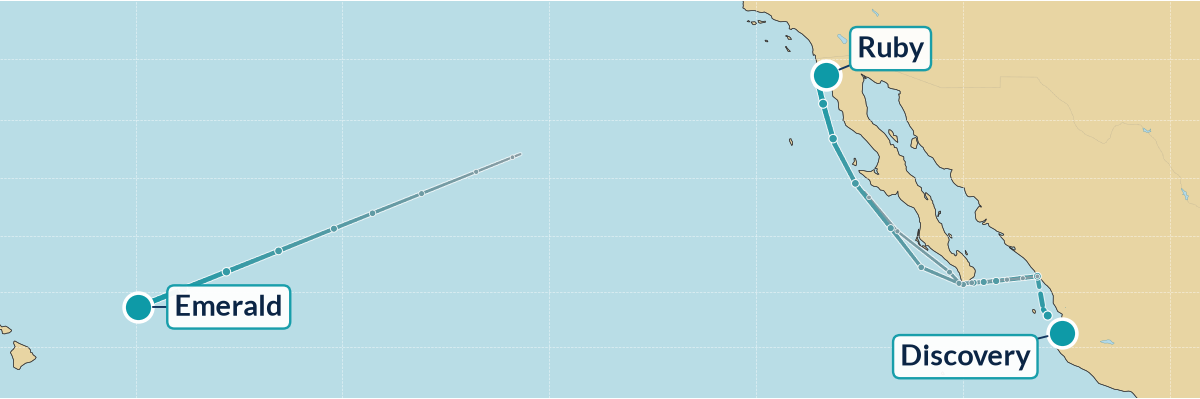
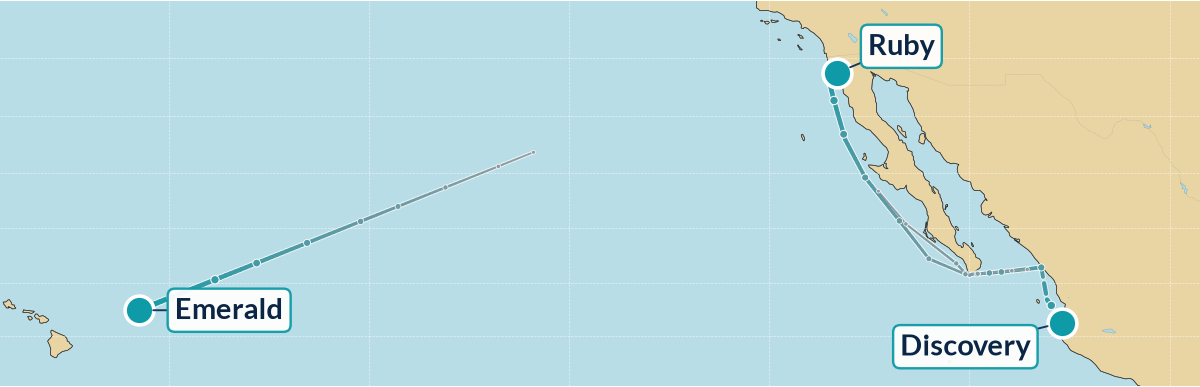
Update 10/21 17:01 PT

diff --git a/index.html b/index.html
@@ -1,47 +1,47 @@
 <!DOCTYPE html><html lang="en"><head><meta charset="utf-8"><meta name="viewport" content="width=device-width, initial-scale=1"><meta http-equiv="refresh" content="1800"><meta name="description" content="Live Princess Cruises fleet tracker"><title>Princess Patter — Wednesday, October 21, 2026</title></head>
 <body style="margin:0;padding:0;background-color:#dee2e8;">
-<div style="display:none;max-height:0;overflow:hidden;opacity:0;color:#dee2e8;font-size:1px;line-height:1px;">Wednesday, October 21, 2026 — 8:00am PT | 17 ships | 7 at sea, 10 in port</div>
+<div style="display:none;max-height:0;overflow:hidden;opacity:0;color:#dee2e8;font-size:1px;line-height:1px;">Wednesday, October 21, 2026 — 4:00pm PT | 17 ships | 13 at sea, 4 in port</div>
 <table role="presentation" width="100%" cellpadding="0" cellspacing="0" border="0" bgcolor="#dee2e8" style="background-color:#dee2e8;border-collapse:collapse;"><tr><td align="center" style="padding:16px 8px;">
 <table role="presentation" width="100%" cellpadding="0" cellspacing="0" border="0" bgcolor="#fdfdfb" style="width:100%;max-width:900px;background-color:#fdfdfb;border-collapse:collapse;border:1px solid #d6dae0;">
 <tr><td bgcolor="#1d3a6b" align="left" style="background-color:#1d3a6b;padding:24px 28px 24px 28px;"><div style="font-family:Georgia, 'Times New Roman', Times, serif;font-size:40px;line-height:46px;color:#ffffff;letter-spacing:0.5px;"><span style="color:#a8b6e2;">≋</span>&nbsp;Princess Patter</div></td></tr>
-<tr><td style="padding:0;"><table role="presentation" width="100%" cellpadding="0" cellspacing="0" border="0" style="border-collapse:collapse;"><tr><td height="5" bgcolor="#6a5aa8" style="background-color:#6a5aa8;height:5px;font-size:0;line-height:0;width:60%;">&nbsp;</td><td height="5" bgcolor="#2f6db5" style="background-color:#2f6db5;height:5px;font-size:0;line-height:0;width:40%;">&nbsp;</td></tr></table></td></tr><tr><td bgcolor="#1d3a6b" style="background:linear-gradient(#1d3a6b,#2f6db5);padding:10px 16px 14px;text-align:center;"><img src="regal.png?v=202610211601" alt="Regal Princess" style="width:100%;max-width:640px;height:auto;display:block;margin:0 auto;"></td></tr>
+<tr><td style="padding:0;"><table role="presentation" width="100%" cellpadding="0" cellspacing="0" border="0" style="border-collapse:collapse;"><tr><td height="5" bgcolor="#6a5aa8" style="background-color:#6a5aa8;height:5px;font-size:0;line-height:0;width:60%;">&nbsp;</td><td height="5" bgcolor="#2f6db5" style="background-color:#2f6db5;height:5px;font-size:0;line-height:0;width:40%;">&nbsp;</td></tr></table></td></tr><tr><td bgcolor="#1d3a6b" style="background:linear-gradient(#1d3a6b,#2f6db5);padding:10px 16px 14px;text-align:center;"><img src="regal.png?v=202610211701" alt="Regal Princess" style="width:100%;max-width:640px;height:auto;display:block;margin:0 auto;"></td></tr>
 <tr><td style="padding:22px 20px 6px 20px;">
-<div style="font-family:Georgia, 'Times New Roman', Times, serif;font-style:italic;font-size:20px;line-height:26px;color:#2f6db5;">Good morning!</div>
+<div style="font-family:Georgia, 'Times New Roman', Times, serif;font-style:italic;font-size:20px;line-height:26px;color:#2f6db5;">Good afternoon!</div>
 <div style="font-family:Georgia, 'Times New Roman', Times, serif;font-weight:bold;font-size:26px;line-height:32px;color:#1d3a6b;padding-top:6px;">Wednesday, October 21, 2026</div>
-<div style="font-family:Helvetica, Arial, sans-serif;font-size:16px;line-height:22px;color:#2f6db5;padding-top:4px;">8:00am PT | 17 ships | 7 at sea, 10 in port</div>
-</td></tr><tr><td style="padding:14px 20px 0 20px;"><div style="font-family:Georgia, 'Times New Roman', Times, serif;font-style:italic;font-weight:bold;font-size:18px;color:#295aa0;padding:0 4px 4px;border-bottom:1px solid #295aa0;">pacific map</div><a href="map.png?v=202610211601"><img src="map.png?v=202610211601" alt="Pacific fleet map" style="width:100%;height:auto;display:block;margin-top:8px;border-radius:12px;border:2px solid #c8dee2;"></a></td></tr>
+<div style="font-family:Helvetica, Arial, sans-serif;font-size:16px;line-height:22px;color:#2f6db5;padding-top:4px;">4:00pm PT | 17 ships | 13 at sea, 4 in port</div>
+</td></tr><tr><td style="padding:14px 20px 0 20px;"><div style="font-family:Georgia, 'Times New Roman', Times, serif;font-style:italic;font-weight:bold;font-size:18px;color:#295aa0;padding:0 4px 4px;border-bottom:1px solid #295aa0;">pacific map</div><a href="map.png?v=202610211701"><img src="map.png?v=202610211701" alt="Pacific fleet map" style="width:100%;height:auto;display:block;margin-top:8px;border-radius:12px;border:2px solid #c8dee2;"></a></td></tr>
 <tr><td style="padding:14px 20px 4px 20px;">
 <table role="presentation" width="100%" cellpadding="0" cellspacing="0" border="0" style="border-collapse:collapse;width:100%;font-family:Helvetica, Arial, sans-serif;font-size:15px;line-height:20px;color:#262c38;">
 <tr bgcolor="#2f6db5" style="background-color:#2f6db5;"><td style="font-size:14px;line-height:18px;font-weight:bold;color:#ffffff;text-align:left;padding:9px 8px;padding-left:10px;" colspan="2">Ship</td><td style="font-size:14px;line-height:18px;font-weight:bold;color:#ffffff;text-align:left;padding:9px 8px;">Where</td><td style="font-size:14px;line-height:18px;font-weight:bold;color:#ffffff;text-align:left;padding:9px 8px;">Next Port</td></tr>
 <tr><td colspan="4" style="padding:14px 4px 4px 4px;border-bottom:1px solid #295aa0;font-family:Georgia, 'Times New Roman', Times, serif;font-style:italic;font-weight:bold;font-size:18px;line-height:22px;color:#295aa0;">canada &amp; new england</td></tr>
-<tr bgcolor="#eef0f3" style="background-color:#eef0f3;"><td width="18" style="padding:7px 0 7px 8px;vertical-align:top;width:18px;color:#1a9a9a;font-size:18px;">&nbsp;</td><td style="padding:7px 8px;vertical-align:top;"><b style="color:#1d3a6b;">Majestic</b></td><td style="padding:7px 8px;vertical-align:top;">Saint John <span style="white-space:nowrap;font-size:12px;color:#707884;" title="Forecast high/low">🌙&thinsp;46°</span> <span style="font-size:13px;color:#707884;">(2:45pm)</span></td><td style="padding:7px 8px;vertical-align:top;">Halifax <span style="white-space:nowrap;font-size:12px;color:#707884;" title="Forecast high/low">🌧&thinsp;52°/45°</span> <span style="font-size:13px;color:#707884;">(10/22 9am)</span></td></tr>
-<tr bgcolor="#ffffff" style="background-color:#ffffff;"><td width="18" style="padding:7px 0 7px 8px;vertical-align:top;width:18px;color:#1a9a9a;font-size:18px;">&nbsp;</td><td style="padding:7px 8px;vertical-align:top;"><b style="color:#1d3a6b;">Sapphire</b></td><td style="padding:7px 8px;vertical-align:top;">Saguenay <span style="white-space:nowrap;font-size:12px;color:#707884;" title="Forecast high/low">🌙&thinsp;42°</span> <span style="font-size:13px;color:#707884;">(3pm)</span></td><td style="padding:7px 8px;vertical-align:top;">Quebec City <span style="font-size:13px;color:#707884;">(10/22 6am)</span></td></tr>
+<tr bgcolor="#eef0f3" style="background-color:#eef0f3;"><td width="18" style="padding:7px 0 7px 8px;vertical-align:top;width:18px;color:#1a9a9a;font-size:18px;">&nbsp;</td><td style="padding:7px 8px;vertical-align:top;"><b style="color:#1d3a6b;">Majestic</b></td><td style="padding:7px 8px;vertical-align:top;">At Sea <span style="white-space:nowrap;font-size:12px;color:#707884;" title="Forecast high/low">☁&thinsp;53°</span> <span style="font-size:12px;color:#707884;"><span style="white-space:nowrap;">🌊 2 ft</span> &middot; <span style="white-space:nowrap;">🚢 15.7 kn</span></span></td><td style="padding:7px 8px;vertical-align:top;">Halifax <span style="white-space:nowrap;font-size:12px;color:#707884;" title="Forecast high/low">🌧&thinsp;52°/45°</span> <span style="font-size:13px;color:#707884;">(10/22 9am)</span></td></tr>
+<tr bgcolor="#ffffff" style="background-color:#ffffff;"><td width="18" style="padding:7px 0 7px 8px;vertical-align:top;width:18px;color:#1a9a9a;font-size:18px;">&nbsp;</td><td style="padding:7px 8px;vertical-align:top;"><b style="color:#1d3a6b;">Sapphire</b></td><td style="padding:7px 8px;vertical-align:top;">At Sea <span style="white-space:nowrap;font-size:12px;color:#707884;" title="Forecast high/low">🌙&thinsp;40°</span> <span style="font-size:12px;color:#707884;"><span style="white-space:nowrap;">💨 WSW 3 kt</span> &middot; <span style="white-space:nowrap;">🚢 13.0 kn</span></span></td><td style="padding:7px 8px;vertical-align:top;">Quebec City <span style="font-size:13px;color:#707884;">(10/22 6am)</span></td></tr>
 <tr><td colspan="4" style="padding:14px 4px 4px 4px;border-bottom:1px solid #295aa0;font-family:Georgia, 'Times New Roman', Times, serif;font-style:italic;font-weight:bold;font-size:18px;line-height:22px;color:#295aa0;">caribbean</td></tr>
-<tr bgcolor="#eef0f3" style="background-color:#eef0f3;"><td width="18" style="padding:7px 0 7px 8px;vertical-align:top;width:18px;color:#1a9a9a;font-size:18px;">&nbsp;</td><td style="padding:7px 8px;vertical-align:top;"><b style="color:#1d3a6b;">Caribbean</b></td><td style="padding:7px 8px;vertical-align:top;">At Sea <span style="white-space:nowrap;font-size:12px;color:#707884;" title="Forecast high/low">🌙&thinsp;84°</span> <span style="font-size:12px;color:#707884;"><span style="white-space:nowrap;">🌊 2 ft</span> &middot; <span style="white-space:nowrap;">💨 ENE 8 kt</span> &middot; <span style="white-space:nowrap;">🚢 13.9 kn</span></span></td><td style="padding:7px 8px;vertical-align:top;">Oranjestad <span style="white-space:nowrap;font-size:12px;color:#707884;" title="Forecast high/low">⛈&thinsp;88°/79°</span> <span style="font-size:13px;color:#707884;">(10/22 6am)</span></td></tr>
-<tr bgcolor="#ffffff" style="background-color:#ffffff;"><td width="18" style="padding:7px 0 7px 8px;vertical-align:top;width:18px;color:#1a9a9a;font-size:18px;">&nbsp;</td><td style="padding:7px 8px;vertical-align:top;"><b style="color:#1d3a6b;">Coral</b></td><td style="padding:7px 8px;vertical-align:top;">Roseau <span style="white-space:nowrap;font-size:12px;color:#707884;" title="Forecast high/low">☁&thinsp;81°</span> <span style="font-size:13px;color:#707884;">(2pm)</span></td><td style="padding:7px 8px;vertical-align:top;">St Georges <span style="white-space:nowrap;font-size:12px;color:#707884;" title="Forecast high/low">🌦&thinsp;87°/62°</span> <span style="font-size:13px;color:#707884;">(10/22 5am)</span></td></tr>
-<tr bgcolor="#eef0f3" style="background-color:#eef0f3;"><td width="18" style="padding:7px 0 7px 8px;vertical-align:top;width:18px;color:#1a9a9a;font-size:18px;">&nbsp;</td><td style="padding:7px 8px;vertical-align:top;"><b style="color:#1d3a6b;">Regal</b></td><td style="padding:7px 8px;vertical-align:top;">Amber Cove <span style="font-size:13px;color:#707884;">(3pm)</span></td><td style="padding:7px 8px;vertical-align:top;">Grand Turk <span style="white-space:nowrap;font-size:12px;color:#707884;" title="Forecast high/low">🌦&thinsp;83°/76°</span> <span style="font-size:13px;color:#707884;">(10/22 4am)</span></td></tr>
-<tr bgcolor="#ffffff" style="background-color:#ffffff;"><td width="18" style="padding:7px 0 7px 8px;vertical-align:top;width:18px;color:#1a9a9a;font-size:18px;">&nbsp;</td><td style="padding:7px 8px;vertical-align:top;"><b style="color:#1d3a6b;">Star</b></td><td style="padding:7px 8px;vertical-align:top;">At Sea <span style="white-space:nowrap;font-size:12px;color:#707884;" title="Forecast high/low">🌙&thinsp;82°</span> <span style="font-size:12px;color:#707884;"><span style="white-space:nowrap;">🌊 7 ft</span> &middot; <span style="white-space:nowrap;">💨 NE 10 kt</span> &middot; <span style="white-space:nowrap;">🚢 13.9 kn</span></span></td><td style="padding:7px 8px;vertical-align:top;">Grand Turk <span style="white-space:nowrap;font-size:12px;color:#707884;" title="Forecast high/low">🌦&thinsp;83°/76°</span> <span style="font-size:13px;color:#707884;">(10/22 5am)</span></td></tr>
+<tr bgcolor="#eef0f3" style="background-color:#eef0f3;"><td width="18" style="padding:7px 0 7px 8px;vertical-align:top;width:18px;color:#1a9a9a;font-size:18px;">&nbsp;</td><td style="padding:7px 8px;vertical-align:top;"><b style="color:#1d3a6b;">Caribbean</b></td><td style="padding:7px 8px;vertical-align:top;">At Sea <span style="white-space:nowrap;font-size:12px;color:#707884;" title="Forecast high/low">☁&thinsp;84°</span> <span style="font-size:12px;color:#707884;"><span style="white-space:nowrap;">🌊 4 ft</span> &middot; <span style="white-space:nowrap;">🚢 13.3 kn</span></span></td><td style="padding:7px 8px;vertical-align:top;">Oranjestad <span style="white-space:nowrap;font-size:12px;color:#707884;" title="Forecast high/low">⛈&thinsp;88°/79°</span> <span style="font-size:13px;color:#707884;">(10/22 6am)</span></td></tr>
+<tr bgcolor="#ffffff" style="background-color:#ffffff;"><td width="18" style="padding:7px 0 7px 8px;vertical-align:top;width:18px;color:#1a9a9a;font-size:18px;">&nbsp;</td><td style="padding:7px 8px;vertical-align:top;"><b style="color:#1d3a6b;">Coral</b></td><td style="padding:7px 8px;vertical-align:top;">At Sea <span style="white-space:nowrap;font-size:12px;color:#707884;" title="Forecast high/low">☁&thinsp;84°</span> <span style="font-size:12px;color:#707884;"><span style="white-space:nowrap;">🌊 3 ft</span> &middot; <span style="white-space:nowrap;">🚢 13.9 kn</span></span></td><td style="padding:7px 8px;vertical-align:top;">St Georges <span style="white-space:nowrap;font-size:12px;color:#707884;" title="Forecast high/low">🌦&thinsp;87°/62°</span> <span style="font-size:13px;color:#707884;">(10/22 5am)</span></td></tr>
+<tr bgcolor="#eef0f3" style="background-color:#eef0f3;"><td width="18" style="padding:7px 0 7px 8px;vertical-align:top;width:18px;color:#1a9a9a;font-size:18px;">&nbsp;</td><td style="padding:7px 8px;vertical-align:top;"><b style="color:#1d3a6b;">Regal</b></td><td style="padding:7px 8px;vertical-align:top;">At Sea <span style="white-space:nowrap;font-size:12px;color:#707884;" title="Forecast high/low">🌧&thinsp;79°</span> <span style="font-size:12px;color:#707884;"><span style="white-space:nowrap;">🌊 3 ft</span></span></td><td style="padding:7px 8px;vertical-align:top;">Grand Turk <span style="white-space:nowrap;font-size:12px;color:#707884;" title="Forecast high/low">🌦&thinsp;83°/76°</span> <span style="font-size:13px;color:#707884;">(10/22 4am)</span></td></tr>
+<tr bgcolor="#ffffff" style="background-color:#ffffff;"><td width="18" style="padding:7px 0 7px 8px;vertical-align:top;width:18px;color:#1a9a9a;font-size:18px;">&nbsp;</td><td style="padding:7px 8px;vertical-align:top;"><b style="color:#1d3a6b;">Star</b></td><td style="padding:7px 8px;vertical-align:top;">At Sea <span style="white-space:nowrap;font-size:12px;color:#707884;" title="Forecast high/low">🌙&thinsp;81°</span> <span style="font-size:12px;color:#707884;"><span style="white-space:nowrap;">🌊 7 ft</span> &middot; <span style="white-space:nowrap;">🚢 13.8 kn</span></span></td><td style="padding:7px 8px;vertical-align:top;">Grand Turk <span style="white-space:nowrap;font-size:12px;color:#707884;" title="Forecast high/low">🌦&thinsp;83°/76°</span> <span style="font-size:13px;color:#707884;">(10/22 5am)</span></td></tr>
 <tr><td colspan="4" style="padding:14px 4px 4px 4px;border-bottom:1px solid #295aa0;font-family:Georgia, 'Times New Roman', Times, serif;font-style:italic;font-weight:bold;font-size:18px;line-height:22px;color:#295aa0;">hawaii</td></tr>
-<tr bgcolor="#eef0f3" style="background-color:#eef0f3;"><td width="18" style="padding:7px 0 7px 8px;vertical-align:top;width:18px;color:#1a9a9a;font-size:18px;">&nbsp;</td><td style="padding:7px 8px;vertical-align:top;"><b style="color:#1d3a6b;">Emerald</b></td><td style="padding:7px 8px;vertical-align:top;">At Sea <span style="white-space:nowrap;font-size:12px;color:#707884;" title="Forecast high/low">⛅&thinsp;76°</span> <span style="font-size:12px;color:#707884;"><span style="white-space:nowrap;">🌊 7 ft</span> &middot; <span style="white-space:nowrap;">💨 E 15 kt</span> &middot; <span style="white-space:nowrap;">🚢 12.8 kn</span></span></td><td style="padding:7px 8px;vertical-align:top;">Hilo <span style="white-space:nowrap;font-size:12px;color:#707884;" title="Forecast high/low">🌦&thinsp;79°/66°</span> <span style="font-size:13px;color:#707884;">(10/22 11am)</span></td></tr>
+<tr bgcolor="#eef0f3" style="background-color:#eef0f3;"><td width="18" style="padding:7px 0 7px 8px;vertical-align:top;width:18px;color:#1a9a9a;font-size:18px;">&nbsp;</td><td style="padding:7px 8px;vertical-align:top;"><b style="color:#1d3a6b;">Emerald</b></td><td style="padding:7px 8px;vertical-align:top;">At Sea <span style="white-space:nowrap;font-size:12px;color:#707884;" title="Forecast high/low">☀&thinsp;77°</span> <span style="font-size:12px;color:#707884;"><span style="white-space:nowrap;">🌊 7 ft</span> &middot; <span style="white-space:nowrap;">🚢 12.1 kn</span></span></td><td style="padding:7px 8px;vertical-align:top;">Hilo <span style="white-space:nowrap;font-size:12px;color:#707884;" title="Forecast high/low">🌦&thinsp;79°/66°</span> <span style="font-size:13px;color:#707884;">(10/22 11am)</span></td></tr>
 <tr><td colspan="4" style="padding:14px 4px 4px 4px;border-bottom:1px solid #295aa0;font-family:Georgia, 'Times New Roman', Times, serif;font-style:italic;font-weight:bold;font-size:18px;line-height:22px;color:#295aa0;">mexican riviera</td></tr>
-<tr bgcolor="#eef0f3" style="background-color:#eef0f3;"><td width="18" style="padding:7px 0 7px 8px;vertical-align:top;width:18px;color:#1a9a9a;font-size:18px;">&nbsp;</td><td style="padding:7px 8px;vertical-align:top;"><b style="color:#1d3a6b;">Discovery</b></td><td style="padding:7px 8px;vertical-align:top;">Puerto Vallarta <span style="white-space:nowrap;font-size:12px;color:#707884;" title="Forecast high/low">⛅&thinsp;87°</span> <span style="font-size:13px;color:#707884;">(3pm)</span></td><td style="padding:7px 8px;vertical-align:top;">Los Angeles <span style="white-space:nowrap;font-size:12px;color:#707884;" title="Forecast high/low">☀&thinsp;76°/64°</span> <span style="font-size:13px;color:#707884;">(10/24 6:15am)</span></td></tr>
+<tr bgcolor="#eef0f3" style="background-color:#eef0f3;"><td width="18" style="padding:7px 0 7px 8px;vertical-align:top;width:18px;color:#1a9a9a;font-size:18px;">&nbsp;</td><td style="padding:7px 8px;vertical-align:top;"><b style="color:#1d3a6b;">Discovery</b></td><td style="padding:7px 8px;vertical-align:top;">At Sea <span style="white-space:nowrap;font-size:12px;color:#707884;" title="Forecast high/low">☀&thinsp;85°</span> <span style="font-size:12px;color:#707884;"><span style="white-space:nowrap;">🌊 4 ft</span> &middot; <span style="white-space:nowrap;">🚢 19.3 kn</span></span></td><td style="padding:7px 8px;vertical-align:top;">Los Angeles <span style="white-space:nowrap;font-size:12px;color:#707884;" title="Forecast high/low">☀&thinsp;76°/64°</span> <span style="font-size:13px;color:#707884;">(10/24 6:15am)</span></td></tr>
 <tr bgcolor="#ffffff" style="background-color:#ffffff;"><td width="18" style="padding:7px 0 7px 8px;vertical-align:top;width:18px;color:#1a9a9a;font-size:18px;">&nbsp;</td><td style="padding:7px 8px;vertical-align:top;"><b style="color:#1d3a6b;">Ruby</b></td><td style="padding:7px 8px;vertical-align:top;">Ensenada <span style="white-space:nowrap;font-size:12px;color:#707884;" title="Forecast high/low">☀&thinsp;73°</span></td><td style="padding:7px 8px;vertical-align:top;">San Francisco <span style="white-space:nowrap;font-size:12px;color:#707884;" title="Forecast high/low">⛅&thinsp;66°/50°</span> <span style="font-size:13px;color:#707884;">(10/23 7am)</span></td></tr>
 <tr><td colspan="4" style="padding:14px 4px 4px 4px;border-bottom:1px solid #295aa0;font-family:Georgia, 'Times New Roman', Times, serif;font-style:italic;font-weight:bold;font-size:18px;line-height:22px;color:#295aa0;">asia</td></tr>
-<tr bgcolor="#eef0f3" style="background-color:#eef0f3;"><td width="18" style="padding:7px 0 7px 8px;vertical-align:top;width:18px;color:#1a9a9a;font-size:18px;">&nbsp;</td><td style="padding:7px 8px;vertical-align:top;"><b style="color:#1d3a6b;">Diamond</b></td><td style="padding:7px 8px;vertical-align:top;">At Sea <span style="white-space:nowrap;font-size:12px;color:#707884;" title="Forecast high/low">☀&thinsp;61°</span> <span style="font-size:12px;color:#707884;"><span style="white-space:nowrap;">🌊 5 ft</span> &middot; <span style="white-space:nowrap;">💨 N 23 kt</span> &middot; <span style="white-space:nowrap;">🚢 14.6 kn</span></span></td><td style="padding:7px 8px;vertical-align:top;">Busan <span style="white-space:nowrap;font-size:12px;color:#707884;" title="Forecast high/low">☀&thinsp;62°/47°</span> <span style="font-size:13px;color:#707884;">(10/21 3pm)</span></td></tr>
+<tr bgcolor="#eef0f3" style="background-color:#eef0f3;"><td width="18" style="padding:7px 0 7px 8px;vertical-align:top;width:18px;color:#1a9a9a;font-size:18px;">&nbsp;</td><td style="padding:7px 8px;vertical-align:top;"><b style="color:#1d3a6b;">Diamond</b></td><td style="padding:7px 8px;vertical-align:top;">Busan <span style="white-space:nowrap;font-size:12px;color:#707884;" title="Forecast high/low">☀&thinsp;51°</span> <span style="font-size:13px;color:#707884;">(10/22 12am)</span></td><td style="padding:7px 8px;vertical-align:top;">Hiroshima <span style="white-space:nowrap;font-size:12px;color:#707884;" title="Forecast high/low">🌧&thinsp;67°/56°</span> <span style="font-size:13px;color:#707884;">(10/23 3pm)</span></td></tr>
 <tr bgcolor="#ffffff" style="background-color:#ffffff;"><td width="18" style="padding:7px 0 7px 8px;vertical-align:top;width:18px;color:#1a9a9a;font-size:18px;">&nbsp;</td><td style="padding:7px 8px;vertical-align:top;"><b style="color:#1d3a6b;">Royal</b></td><td style="padding:7px 8px;vertical-align:top;">Singapore <span style="font-size:13px;color:#707884;">(Drydock)</span></td><td style="padding:7px 8px;vertical-align:top;">Drydock <span style="font-size:13px;color:#707884;">(to 11/1)</span></td></tr>
 <tr><td colspan="4" style="padding:14px 4px 4px 4px;border-bottom:1px solid #295aa0;font-family:Georgia, 'Times New Roman', Times, serif;font-style:italic;font-weight:bold;font-size:18px;line-height:22px;color:#295aa0;">australia &amp; new zealand</td></tr>
 <tr bgcolor="#eef0f3" style="background-color:#eef0f3;"><td width="18" style="padding:7px 0 7px 8px;vertical-align:top;width:18px;color:#1a9a9a;font-size:18px;">&nbsp;</td><td style="padding:7px 8px;vertical-align:top;"><b style="color:#1d3a6b;">Crown</b></td><td style="padding:7px 8px;vertical-align:top;">Broome <span style="white-space:nowrap;font-size:12px;color:#707884;" title="Forecast high/low">☀&thinsp;82°</span> <span style="font-size:13px;color:#707884;">(10/22 3am)</span></td><td style="padding:7px 8px;vertical-align:top;">Darwin <span style="white-space:nowrap;font-size:12px;color:#707884;" title="Forecast high/low">🌦&thinsp;86°/79°</span> <span style="font-size:13px;color:#707884;">(10/25 2:30pm)</span></td></tr>
 <tr><td colspan="4" style="padding:14px 4px 4px 4px;border-bottom:1px solid #295aa0;font-family:Georgia, 'Times New Roman', Times, serif;font-style:italic;font-weight:bold;font-size:18px;line-height:22px;color:#295aa0;">mediterranean</td></tr>
-<tr bgcolor="#eef0f3" style="background-color:#eef0f3;"><td width="18" style="padding:7px 0 7px 8px;vertical-align:top;width:18px;color:#1a9a9a;font-size:18px;">&nbsp;</td><td style="padding:7px 8px;vertical-align:top;"><b style="color:#1d3a6b;">Enchanted</b></td><td style="padding:7px 8px;vertical-align:top;">At Sea <span style="white-space:nowrap;font-size:12px;color:#707884;" title="Forecast high/low">☁&thinsp;67°</span> <span style="font-size:12px;color:#707884;"><span style="white-space:nowrap;">🌊 10 ft</span> &middot; <span style="white-space:nowrap;">💨 WNW 26 kt</span> &middot; <span style="white-space:nowrap;">🚢 15.1 kn</span></span></td><td style="padding:7px 8px;vertical-align:top;">Genoa <span style="white-space:nowrap;font-size:12px;color:#707884;" title="Forecast high/low">☁&thinsp;68°/55°</span> <span style="font-size:13px;color:#707884;">(10/21 11pm)</span></td></tr>
-<tr bgcolor="#ffffff" style="background-color:#ffffff;"><td width="18" style="padding:7px 0 7px 8px;vertical-align:top;width:18px;color:#1a9a9a;font-size:18px;">&nbsp;</td><td style="padding:7px 8px;vertical-align:top;"><b style="color:#1d3a6b;">Island</b></td><td style="padding:7px 8px;vertical-align:top;">Barcelona <span style="white-space:nowrap;font-size:12px;color:#707884;" title="Forecast high/low">🌙&thinsp;54°</span> <span style="font-size:13px;color:#707884;">(1pm)</span></td><td style="padding:7px 8px;vertical-align:top;">Ajaccio <span style="white-space:nowrap;font-size:12px;color:#707884;" title="Forecast high/low">☁&thinsp;68°/55°</span> <span style="font-size:13px;color:#707884;">(10/22 10pm)</span></td></tr>
-<tr bgcolor="#eef0f3" style="background-color:#eef0f3;"><td width="18" style="padding:7px 0 7px 8px;vertical-align:top;width:18px;color:#1a9a9a;font-size:18px;">&nbsp;</td><td style="padding:7px 8px;vertical-align:top;"><b style="color:#1d3a6b;">Sun</b></td><td style="padding:7px 8px;vertical-align:top;">At Sea <span style="white-space:nowrap;font-size:12px;color:#707884;" title="Forecast high/low">🌙&thinsp;65°</span> <span style="font-size:12px;color:#707884;"><span style="white-space:nowrap;">🌊 0 ft</span> &middot; <span style="white-space:nowrap;">💨 SW 2 kt</span></span></td><td style="padding:7px 8px;vertical-align:top;">Kusadasi <span style="white-space:nowrap;font-size:12px;color:#707884;" title="Forecast high/low">☁&thinsp;78°/58°</span> <span style="font-size:13px;color:#707884;">(10/21 9pm)</span></td></tr>
+<tr bgcolor="#eef0f3" style="background-color:#eef0f3;"><td width="18" style="padding:7px 0 7px 8px;vertical-align:top;width:18px;color:#1a9a9a;font-size:18px;">&nbsp;</td><td style="padding:7px 8px;vertical-align:top;"><b style="color:#1d3a6b;">Enchanted</b></td><td style="padding:7px 8px;vertical-align:top;">At Sea <span style="white-space:nowrap;font-size:12px;color:#707884;" title="Forecast high/low">🌙&thinsp;67°</span> <span style="font-size:12px;color:#707884;"><span style="white-space:nowrap;">🌊 9 ft</span> &middot; <span style="white-space:nowrap;">🚢 10.0 kn</span></span></td><td style="padding:7px 8px;vertical-align:top;">Genoa <span style="white-space:nowrap;font-size:12px;color:#707884;" title="Forecast high/low">☁&thinsp;69°/55°</span> <span style="font-size:13px;color:#707884;">(10/21 11pm)</span></td></tr>
+<tr bgcolor="#ffffff" style="background-color:#ffffff;"><td width="18" style="padding:7px 0 7px 8px;vertical-align:top;width:18px;color:#1a9a9a;font-size:18px;">&nbsp;</td><td style="padding:7px 8px;vertical-align:top;"><b style="color:#1d3a6b;">Island</b></td><td style="padding:7px 8px;vertical-align:top;">At Sea <span style="white-space:nowrap;font-size:12px;color:#707884;" title="Forecast high/low">🌙&thinsp;62°</span> <span style="font-size:12px;color:#707884;"><span style="white-space:nowrap;">🌊 3 ft</span> &middot; <span style="white-space:nowrap;">🚢 10.2 kn</span></span></td><td style="padding:7px 8px;vertical-align:top;">Ajaccio <span style="white-space:nowrap;font-size:12px;color:#707884;" title="Forecast high/low">☁&thinsp;68°/56°</span> <span style="font-size:13px;color:#707884;">(10/22 10pm)</span></td></tr>
+<tr bgcolor="#eef0f3" style="background-color:#eef0f3;"><td width="18" style="padding:7px 0 7px 8px;vertical-align:top;width:18px;color:#1a9a9a;font-size:18px;">&nbsp;</td><td style="padding:7px 8px;vertical-align:top;"><b style="color:#1d3a6b;">Sun</b></td><td style="padding:7px 8px;vertical-align:top;">At Sea <span style="white-space:nowrap;font-size:12px;color:#707884;" title="Forecast high/low">☁&thinsp;68°</span> <span style="font-size:12px;color:#707884;"><span style="white-space:nowrap;">🌊 0 ft</span></span></td><td style="padding:7px 8px;vertical-align:top;">Kusadasi <span style="white-space:nowrap;font-size:12px;color:#707884;" title="Forecast high/low">☁&thinsp;78°/58°</span> <span style="font-size:13px;color:#707884;">(10/21 9pm)</span></td></tr>
 <tr><td colspan="4" style="padding:14px 4px 4px 4px;border-bottom:1px solid #295aa0;font-family:Georgia, 'Times New Roman', Times, serif;font-style:italic;font-weight:bold;font-size:18px;line-height:22px;color:#295aa0;">northern europe</td></tr>
-<tr bgcolor="#eef0f3" style="background-color:#eef0f3;"><td width="18" style="padding:7px 0 7px 8px;vertical-align:top;width:18px;color:#1a9a9a;font-size:18px;">&nbsp;</td><td style="padding:7px 8px;vertical-align:top;"><b style="color:#1d3a6b;">Sky</b></td><td style="padding:7px 8px;vertical-align:top;">Alesund <span style="white-space:nowrap;font-size:12px;color:#707884;" title="Forecast high/low">🌙&thinsp;52°</span> <span style="font-size:13px;color:#707884;">(8am)</span></td><td style="padding:7px 8px;vertical-align:top;">Southampton <span style="white-space:nowrap;font-size:12px;color:#707884;" title="Forecast high/low">🌧&thinsp;57°/48°</span> <span style="font-size:13px;color:#707884;">(10/23 11pm)</span></td></tr>
+<tr bgcolor="#eef0f3" style="background-color:#eef0f3;"><td width="18" style="padding:7px 0 7px 8px;vertical-align:top;width:18px;color:#1a9a9a;font-size:18px;">&nbsp;</td><td style="padding:7px 8px;vertical-align:top;"><b style="color:#1d3a6b;">Sky</b></td><td style="padding:7px 8px;vertical-align:top;">At Sea <span style="white-space:nowrap;font-size:12px;color:#707884;" title="Forecast high/low">☁&thinsp;54°</span> <span style="font-size:12px;color:#707884;"><span style="white-space:nowrap;">🌊 10 ft</span> &middot; <span style="white-space:nowrap;">🚢 14.5 kn</span></span></td><td style="padding:7px 8px;vertical-align:top;">Southampton <span style="white-space:nowrap;font-size:12px;color:#707884;" title="Forecast high/low">🌧&thinsp;57°/49°</span> <span style="font-size:13px;color:#707884;">(10/23 11pm)</span></td></tr>
 <tr><td colspan="4" style="padding:14px 4px 4px 4px;border-bottom:1px solid #295aa0;font-family:Georgia, 'Times New Roman', Times, serif;font-style:italic;font-weight:bold;font-size:18px;line-height:22px;color:#295aa0;">tahiti &amp; south pacific</td></tr>
-<tr bgcolor="#eef0f3" style="background-color:#eef0f3;"><td width="18" style="padding:7px 0 7px 8px;vertical-align:top;width:18px;color:#1a9a9a;font-size:18px;">&nbsp;</td><td style="padding:7px 8px;vertical-align:top;"><b style="color:#1d3a6b;">Grand</b></td><td style="padding:7px 8px;vertical-align:top;">At Sea <span style="white-space:nowrap;font-size:12px;color:#707884;" title="Forecast high/low">☁&thinsp;78°</span> <span style="font-size:12px;color:#707884;"><span style="white-space:nowrap;">🌊 9 ft</span> &middot; <span style="white-space:nowrap;">💨 ESE 24 kt</span> &middot; <span style="white-space:nowrap;">🚢 16.1 kn</span></span></td><td style="padding:7px 8px;vertical-align:top;">Lautoka <span style="white-space:nowrap;font-size:12px;color:#707884;" title="Forecast high/low">🌦&thinsp;78°/65°</span> <span style="font-size:13px;color:#707884;">(10/23 1pm)</span></td></tr>
+<tr bgcolor="#eef0f3" style="background-color:#eef0f3;"><td width="18" style="padding:7px 0 7px 8px;vertical-align:top;width:18px;color:#1a9a9a;font-size:18px;">&nbsp;</td><td style="padding:7px 8px;vertical-align:top;"><b style="color:#1d3a6b;">Grand</b></td><td style="padding:7px 8px;vertical-align:top;">At Sea <span style="white-space:nowrap;font-size:12px;color:#707884;" title="Forecast high/low">⛅&thinsp;78°</span> <span style="font-size:12px;color:#707884;"><span style="white-space:nowrap;">🌊 9 ft</span> &middot; <span style="white-space:nowrap;">🚢 15.7 kn</span></span></td><td style="padding:7px 8px;vertical-align:top;">Lautoka <span style="white-space:nowrap;font-size:12px;color:#707884;" title="Forecast high/low">🌦&thinsp;78°/65°</span> <span style="font-size:13px;color:#707884;">(10/23 1pm)</span></td></tr>
 </table>
 <div style="font-family:Helvetica, Arial, sans-serif;font-size:13px;line-height:18px;color:#707884;padding:8px 4px 0 4px;"><span style="color:#d6a214;">&#9733;</span> = maiden call (a ship’s first-ever visit to that port)<br>Maiden calls ahead: <b style="color:#966c00;">Star – Celebration Key 11/1</b></div>
 </td></tr>
 <tr><td align="center" style="padding:22px 20px 6px 20px;font-family:Georgia, 'Times New Roman', Times, serif;font-style:italic;font-size:17px;line-height:24px;color:#295aa0;text-align:center;">“Bon voyage!”</td></tr>
-<tr><td align="center" style="padding:2px 20px 24px 20px;font-family:Helvetica, Arial, sans-serif;font-size:12px;line-height:18px;color:#707884;text-align:center;">Fleet positions from Pavlus AIS plus published schedules. Dates/times PT; ~ = AIS estimate.<br>Page updated 10/21/26 4:01pm PT after each fleet check-in.</td></tr>
+<tr><td align="center" style="padding:2px 20px 24px 20px;font-family:Helvetica, Arial, sans-serif;font-size:12px;line-height:18px;color:#707884;text-align:center;">Fleet positions from Pavlus AIS plus published schedules. Dates/times PT; ~ = AIS estimate.<br>Page updated 10/21/26 5:01pm PT after each fleet check-in.</td></tr>
 </table></td></tr></table></body></html>
